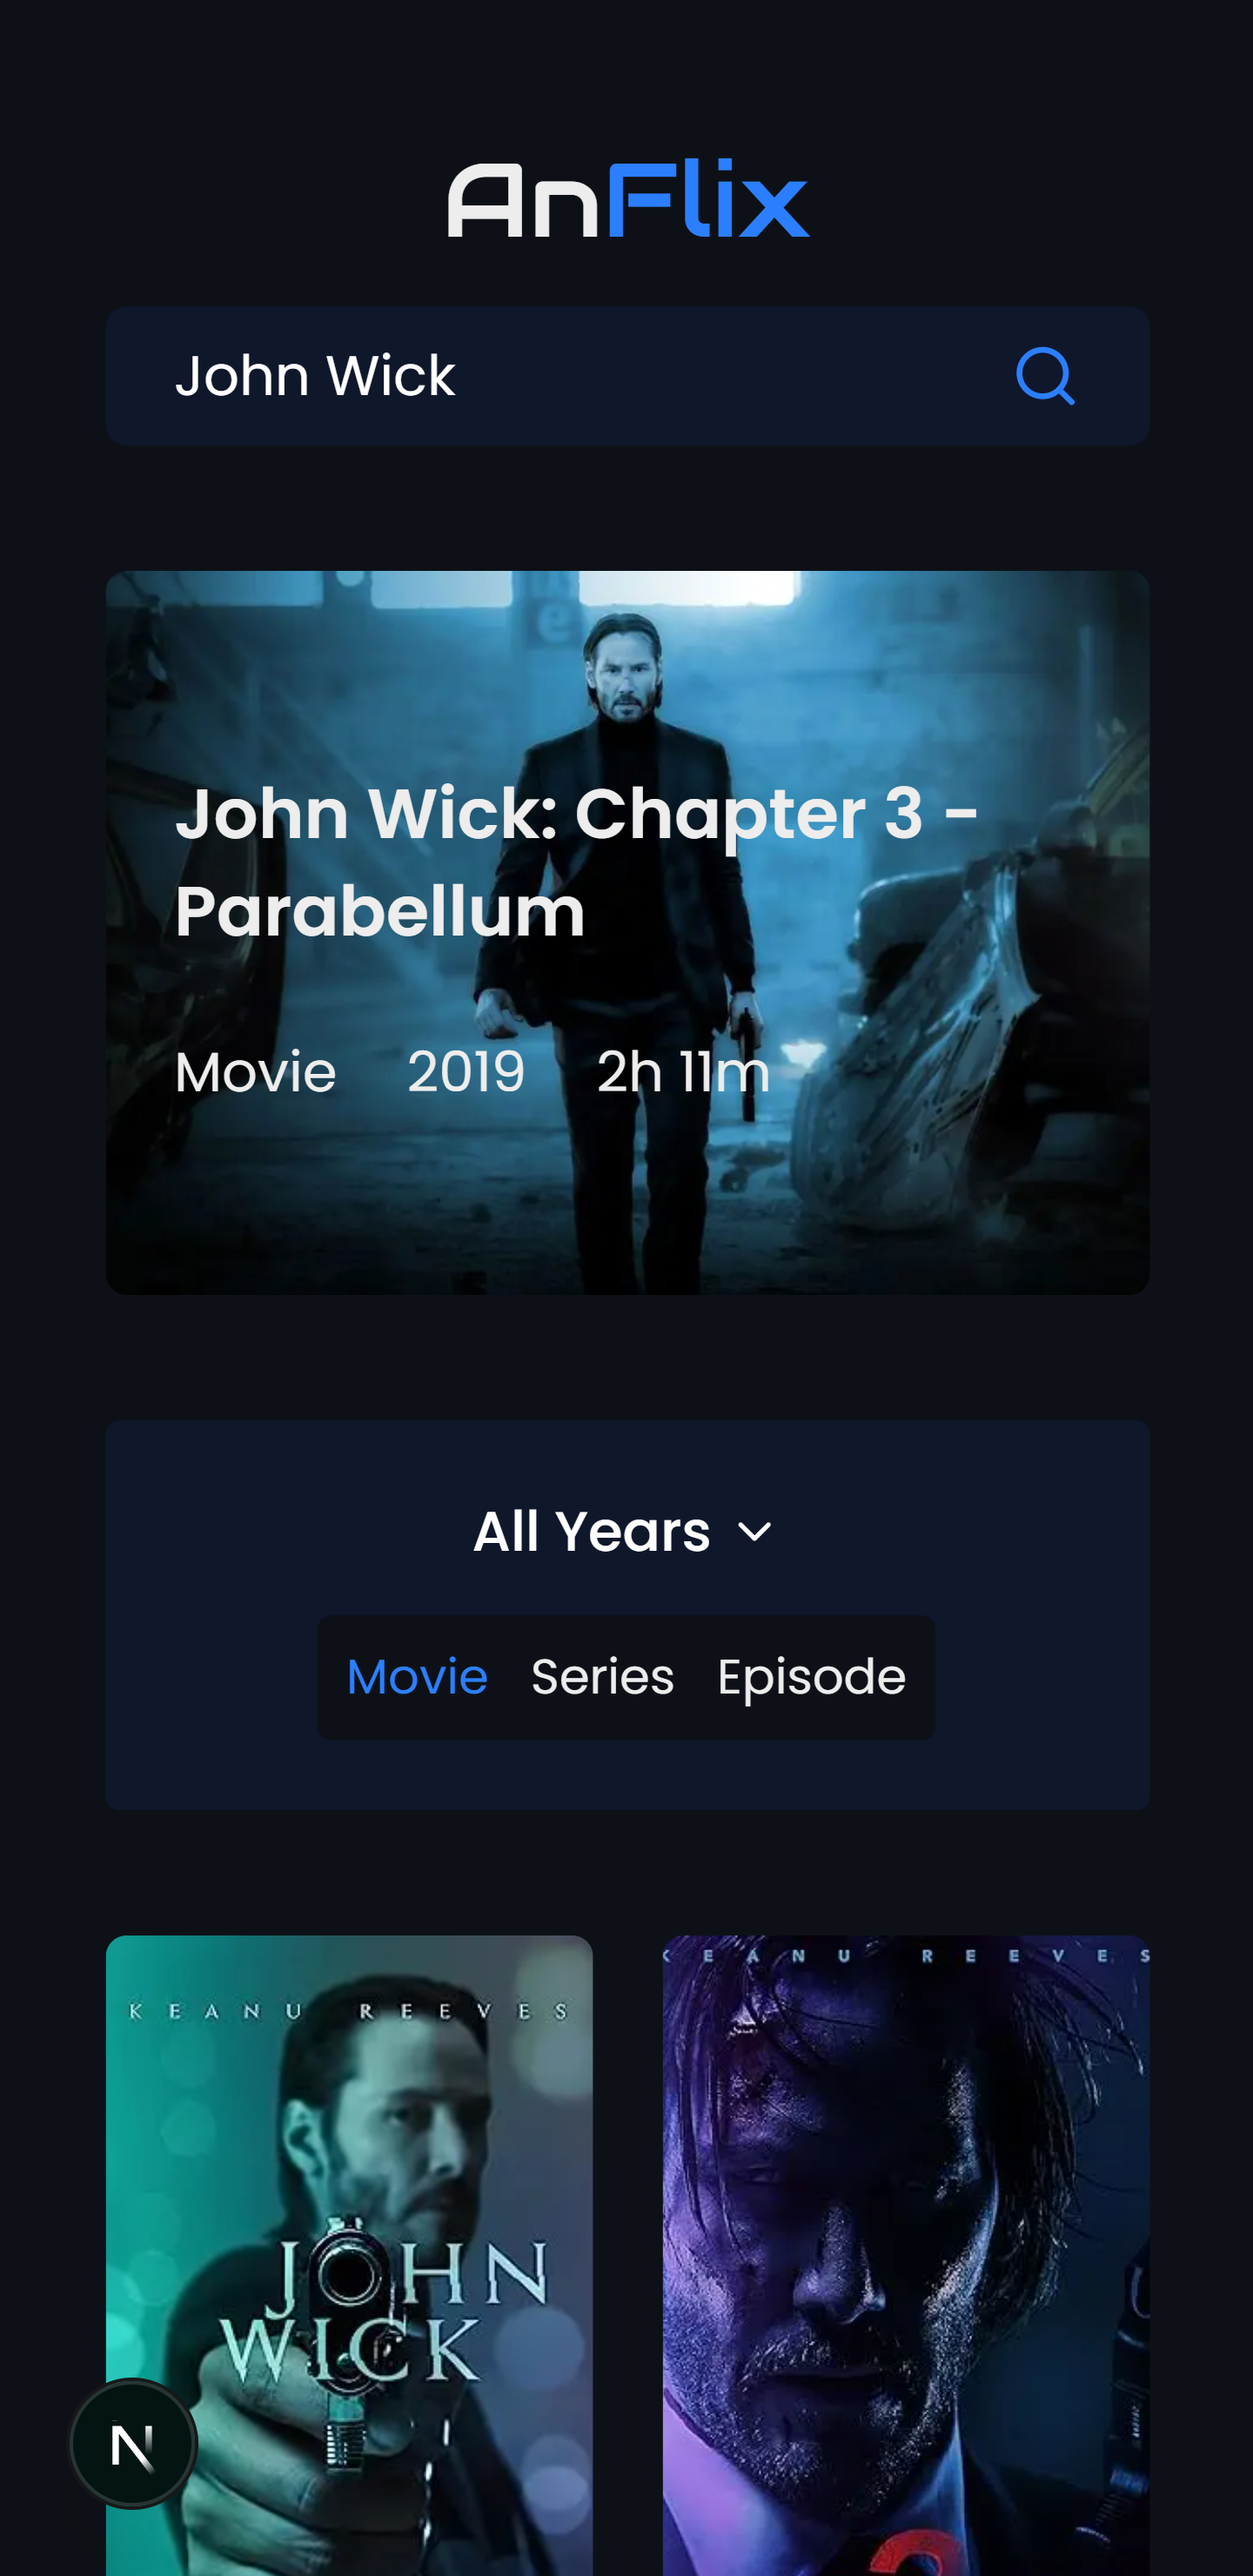
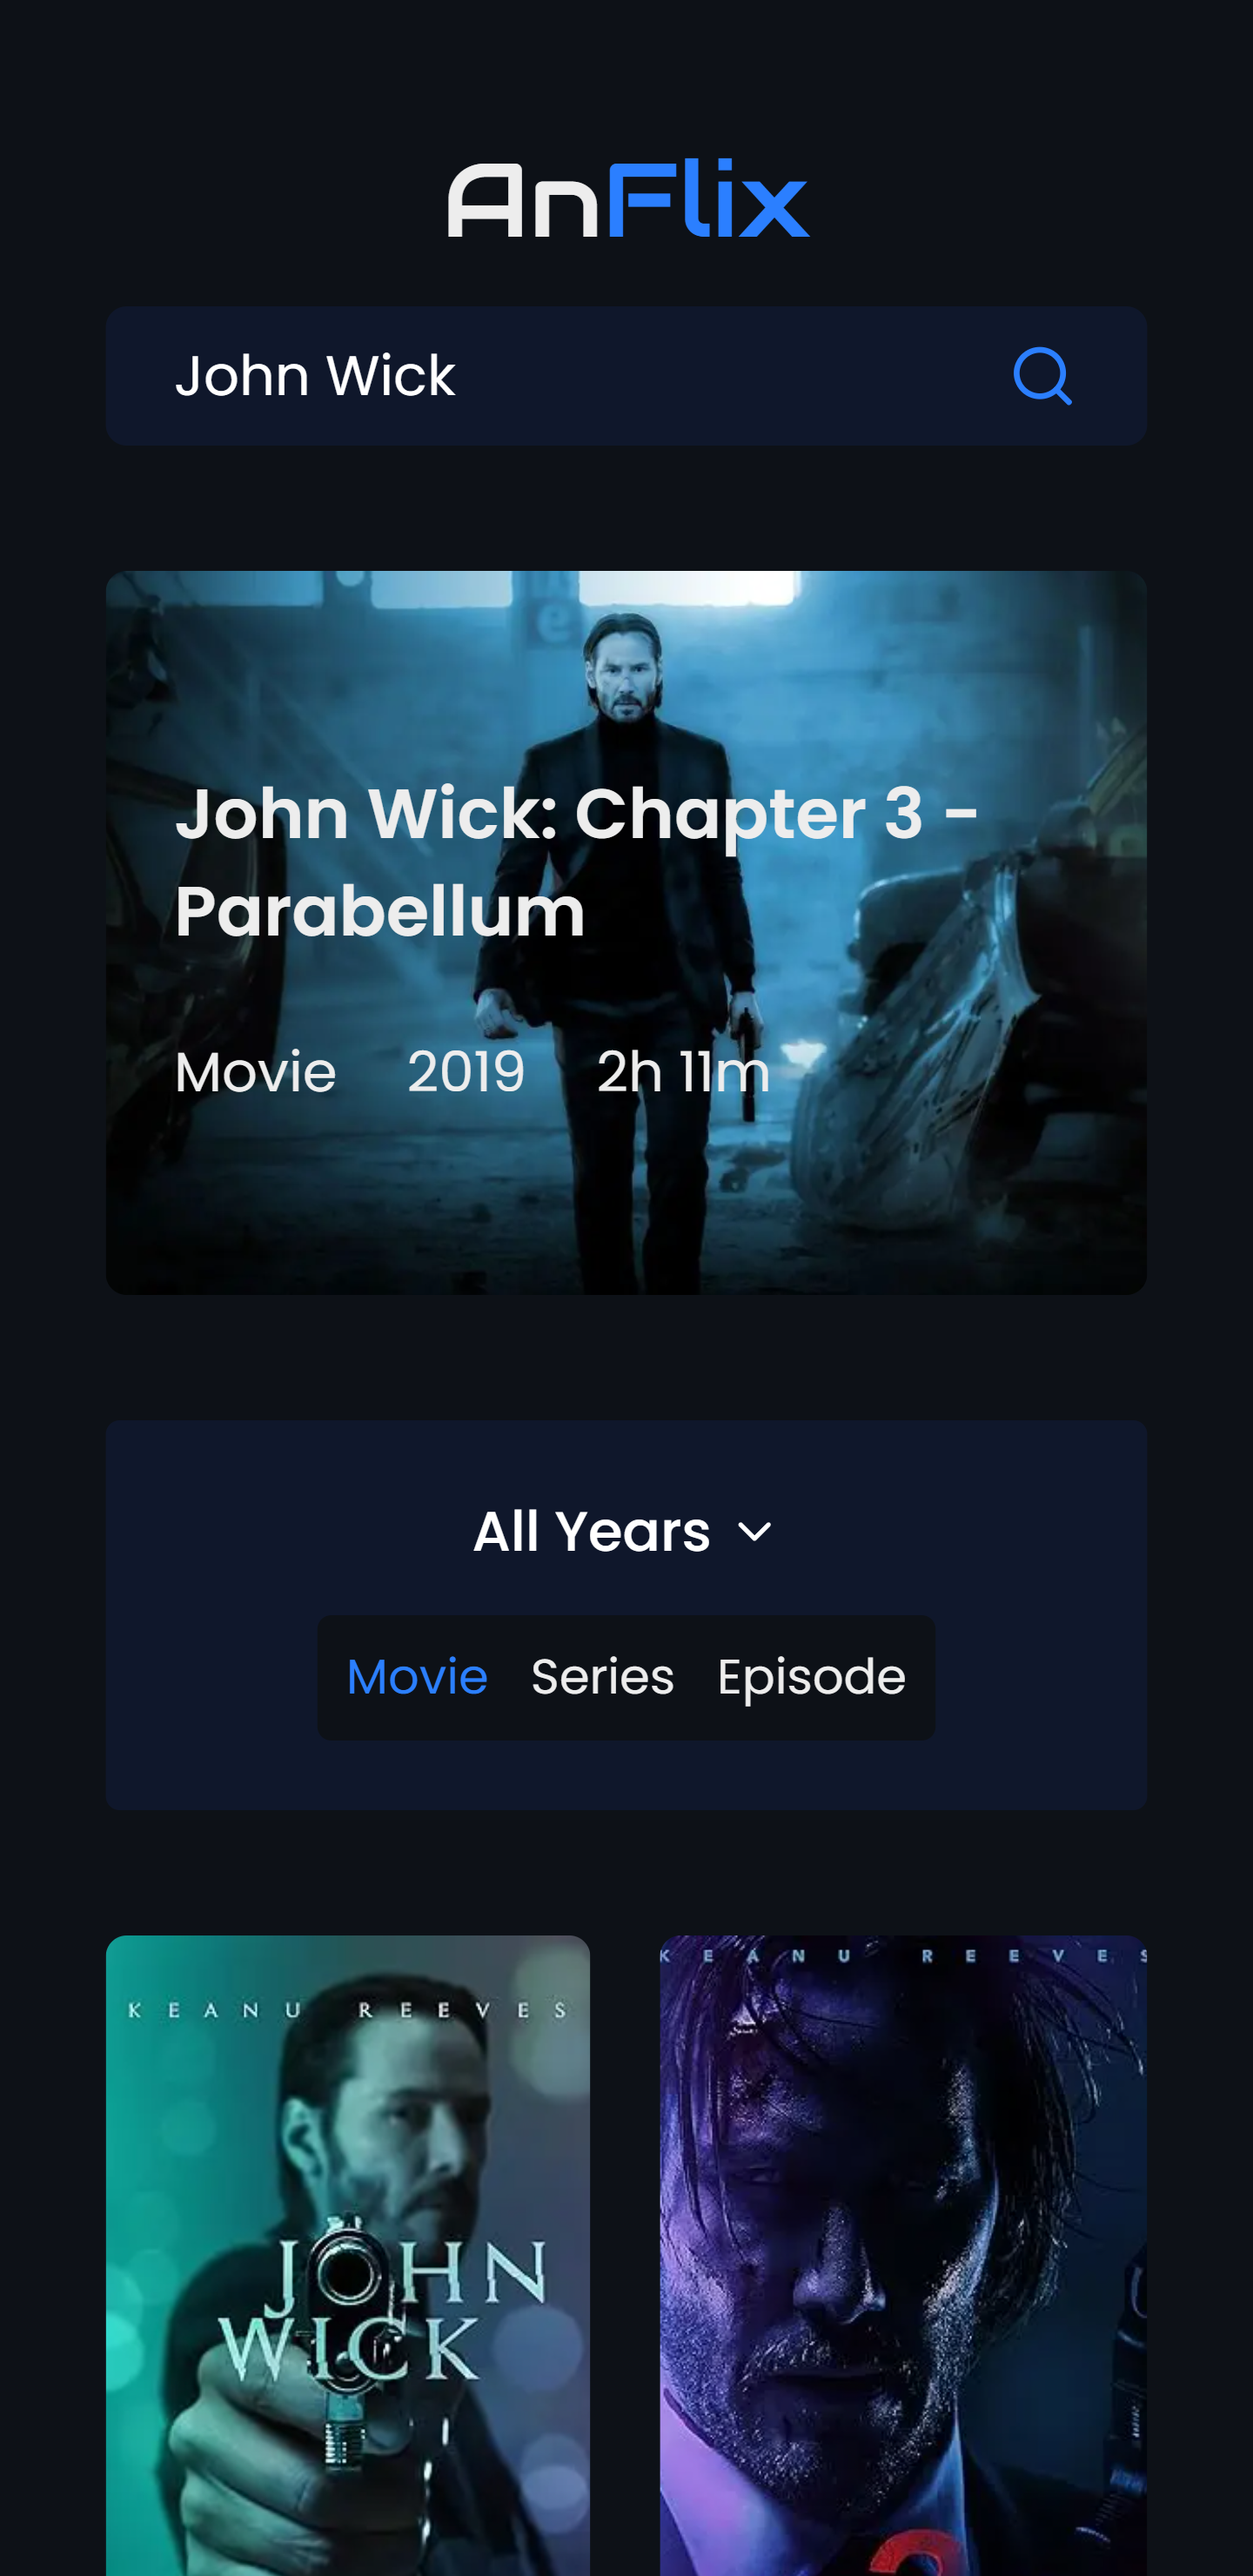
Fix: image not found

diff --git a/components/Card.tsx b/components/Card.tsx
@@ -1,5 +1,7 @@
+'use client'
 import Image from "next/image"
 import Link from "next/link";
+import { useState } from "react";
 
 type CardProps = {
     imdbID: string;
@@ -10,6 +12,11 @@ type CardProps = {
 };
 
 const Card = ({ imdbID, image_url, title, type, year }: CardProps) => {
+    const fallback = '/images/miss_poster.png';
+    const [imgSrc, setImgSrc] = useState(
+        image_url === 'N/A' ? fallback : image_url
+    );
+
     return(
         // <Link href={`https://www.imdb.com/title/${imdbID}`} target="_blank" className="w-32 md:w-40 group">
         //     <div className="rounded-md w-full h-60 mb-2 overflow-hidden">
@@ -30,11 +37,12 @@ const Card = ({ imdbID, image_url, title, type, year }: CardProps) => {
         <Link href={`https://www.imdb.com/title/${imdbID}`} target="_blank" className="group">
             <div className="rounded-md w-full h-60 lg:h-80 mb-2 overflow-hidden">
                 <Image
-                src={image_url === 'N/A' ? '/fallback.jpg' : image_url}
+                src={imgSrc}
+                onError={() => setImgSrc(fallback)}
+                alt="Poster"
                 width={1000}
                 height={1000}
                 className="w-full object-cover h-full transition-all duration-300 ease-in-out group-hover:scale-105"
-                alt="Image"
                 />
             </div>
             <p className="font-bold mb-1 transition-colors duration-300 group-hover:text-blue-500">{title}</p>
